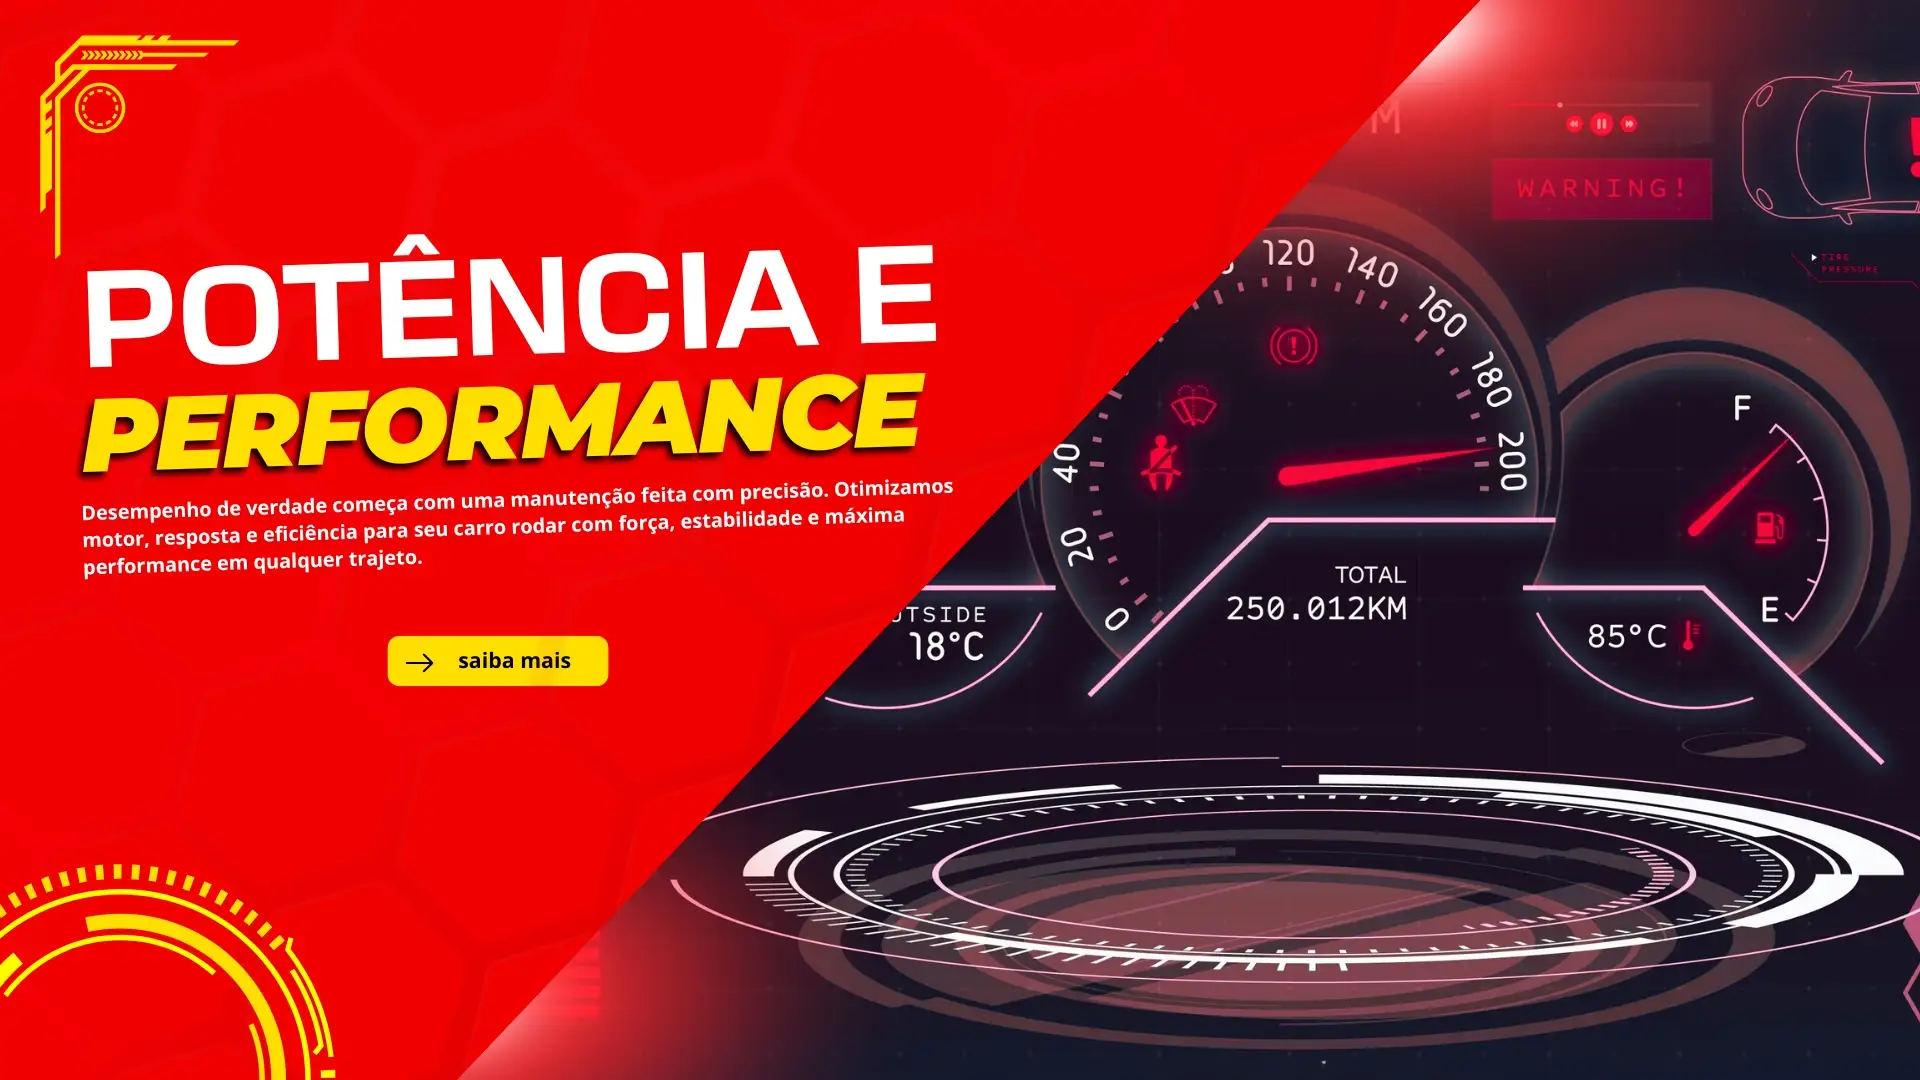
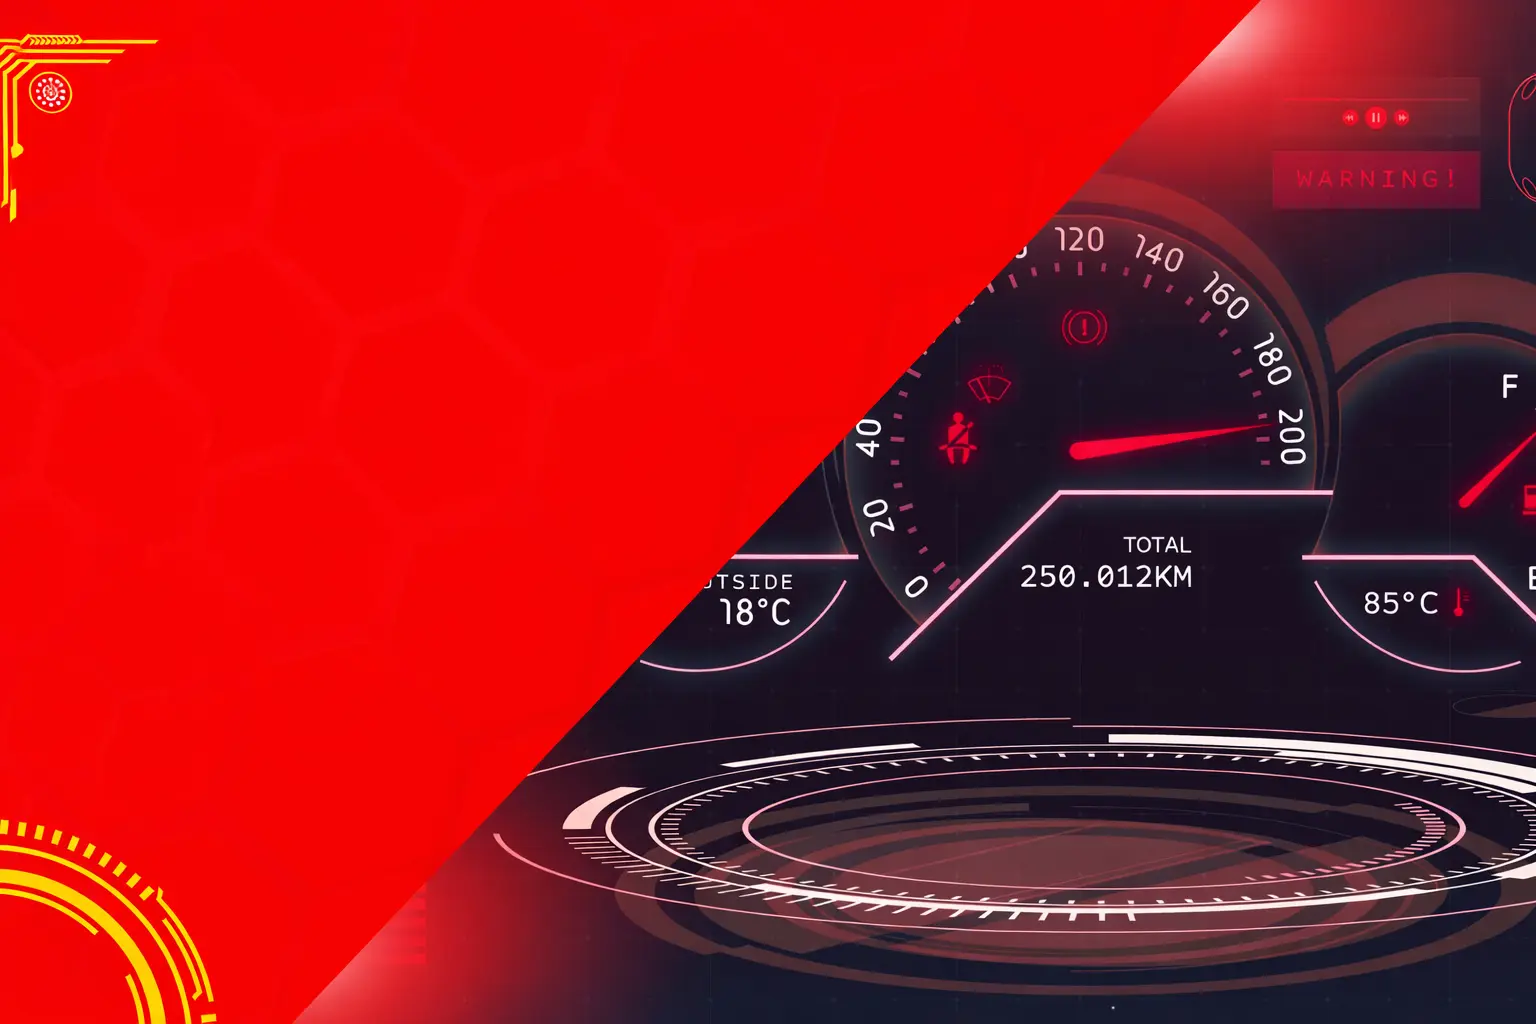
Ajustes na hero

diff --git a/src/components/HeroCarousel.tsx b/src/components/HeroCarousel.tsx
@@ -3,12 +3,12 @@ import { Autoplay, Pagination, Navigation, EffectFade } from "swiper/modules";
 // import { motion } from "framer-motion";
 // import { SlideUp } from "@/animations";
 
-import Hero01 from "@/assets/HERO_01_TEST.webp";
-import Hero02 from "@/assets/luiz injeçao eletronica versao final s texto.jpg";
-import Hero03 from "@/assets/card mecanica geral sem texto.jpg";
-import Hero04 from "@/assets/card alinhamento final sem texto.jpg";
-import Hero05 from "@/assets/30 anos versao final sem texto.jpg";
-import Hero06 from "@/assets/HERO_06_TEST.webp";
+import Hero01 from "@/assets/HERO_01.webp";
+import Hero02 from "@/assets/HERO_02.webp";
+import Hero03 from "@/assets/HERO_03.webp";
+import Hero04 from "@/assets/HERO_04.webp";
+import Hero05 from "@/assets/HERO_05.webp";
+import Hero06 from "@/assets/HERO_06.webp";
 
 type Slide = {
   src: string;
@@ -17,7 +17,8 @@ type Slide = {
   subtitle: string;
   positionMobile?: string;
   positionDesktop?: string;
-  ctaVariant?: "yellow" | "red";
+  buttonVariant?: "yellow" | "red";
+  textVariant?: "light" | "dark";
 };
 
 const slides: Slide[] = [
@@ -29,7 +30,8 @@ const slides: Slide[] = [
       "Performance de verdade começa com manutenção precisa, garantindo força, estabilidade e eficiência em cada trajeto.",
     positionMobile: "20% 40%",
     positionDesktop: "50% 50%",
-    ctaVariant: "yellow",
+    buttonVariant: "yellow",
+    textVariant: "light",
   },
   {
     src: Hero02,
@@ -39,7 +41,8 @@ const slides: Slide[] = [
       "Experiência, confiança e tecnologia para cuidar do seu veículo com a qualidade que você merece.",
     positionMobile: "25% 35%",
     positionDesktop: "50% 50%",
-    ctaVariant: "red",
+    buttonVariant: "red",
+    textVariant: "dark",
   },
   {
     src: Hero03,
@@ -49,7 +52,8 @@ const slides: Slide[] = [
       "Diagnóstico preciso e atendimento de confiança. Cuidamos do seu veículo com tecnologia, experiência e atenção a cada detalhe.",
     positionMobile: "50% 35%",
     positionDesktop: "50% 50%",
-    ctaVariant: "red",
+    buttonVariant: "red",
+    textVariant: "light",
   },
   {
     src: Hero04,
@@ -59,7 +63,8 @@ const slides: Slide[] = [
       "Feitos com precisão para garantir segurança, conforto e desempenho.",
     positionMobile: "50% 35%",
     positionDesktop: "50% 50%",
-    ctaVariant: "red",
+    buttonVariant: "red",
+    textVariant: "light",
   },
   {
     src: Hero05,
@@ -69,7 +74,8 @@ const slides: Slide[] = [
       "Construímos uma trajetória sólida no cuidado automotivo, com experiência que evolui a cada geração e compromisso com a qualidade.",
     positionMobile: "50% 35%",
     positionDesktop: "50% 50%",
-    ctaVariant: "red",
+    buttonVariant: "red",
+    textVariant: "light",
   },
   {
     src: Hero06,
@@ -79,7 +85,8 @@ const slides: Slide[] = [
       "Diagnóstico avançado e precisão para garantir desempenho e eficiência da injeção eletrônica.",
     positionMobile: "50% 35%",
     positionDesktop: "50% 50%",
-    ctaVariant: "red",
+    buttonVariant: "red",
+    textVariant: "dark",
   },
 ];
 
@@ -102,8 +109,11 @@ const HeroCarousel = () => {
           className="w-full h-full"
         >
           {slides.map((item, i) => {
-            const ctaClass =
-              item.ctaVariant === "yellow"
+            const textClass =
+              item.textVariant === "dark" ? "text-black" : "text-white";
+
+            const buttonClass =
+              item.buttonVariant === "yellow"
                 ? "bg-yellow-400 text-black hover:bg-yellow-300"
                 : "bg-(--primary-medium) text-white hover:bg-(--primary)";
 
@@ -133,14 +143,14 @@ const HeroCarousel = () => {
 
                   <div className="absolute inset-0 flex items-center">
                     <div className="container mx-auto px-8">
-                      <div className="max-w-xl text-white text-center md:text-left">
+                      <div className="max-w-xl text-center md:text-left">
                         {/* TITLE */}
-                        <h1 className="font-extrabold text-3xl sm:text-4xl lg:text-6xl whitespace-pre-line">
+                        <h1 className={`font-extrabold text-3xl sm:text-4xl lg:text-6xl whitespace-pre-line ${textClass}`}>
                           {item.title}
                         </h1>
 
                         {/* SUBTITLE */}
-                        <p className="mt-8 text-sm sm:text-base lg:text-lg text-white font-semibold">
+                        <p className={`mt-8 text-sm sm:text-base lg:text-l font-semibold ${textClass}`}>
                           {item.subtitle}
                         </p>
 
@@ -151,7 +161,7 @@ const HeroCarousel = () => {
                               .getElementById("contact")
                               ?.scrollIntoView({ behavior: "smooth" });
                           }}
-                          className={`mt-8 inline-flex items-center cursor-pointer rounded-lg transition px-6 py-3 font-semibold hover:scale-105 ${ctaClass}`}
+                          className={`mt-8 inline-flex items-center cursor-pointer rounded-lg transition px-6 py-3 font-semibold hover:scale-105 ${buttonClass}`}
                         >
                           Agendar Atendimento
                         </button>
